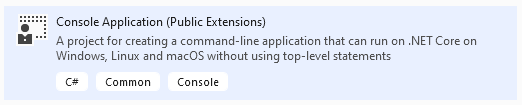
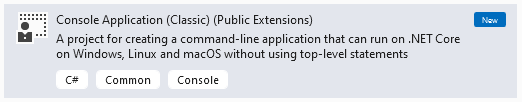
Incorporate dotMorten's GUI options. (#2)

diff --git a/templates/ConsoleApplication-CSharp/Program.cs b/templates/ConsoleApplication-CSharp/Program.cs
@@ -1,7 +1,13 @@
-#if (!csharpFeature_ImplicitUsings)
+#if (csharpFeature_TopLevelProgram)
+// See https://aka.ms/new-console-template for more information
+#endif
+#if (!csharpFeature_ImplicitUsings)
 using System;
 
 #endif
+#if (csharpFeature_TopLevelProgram)
+Console.WriteLine("Hello, World!");
+#else
 namespace Company.ConsoleApplication1
 {
     class Program
@@ -12,3 +18,4 @@ namespace Company.ConsoleApplication1
         }
     }
 }
+#endif

diff --git a/readme.md b/readme.md
@@ -39,11 +39,26 @@ There is currently no option to use the "classic" template if you wish.  Install
 
 ![VS2022 Screenshot](https://github.com/jpobst/classic-dotnet-templates/blob/main/docs/vs-new-project.png "VS2022 Screenshot")
 
+Using this template will allow you to select which template features to use:
+
+![VS2022 Screenshot](https://github.com/jpobst/classic-dotnet-templates/blob/main/docs/vs-options.png "VS2022 Screenshot")
+
 ### Use from CLI
 
 To create a new project from the command line:
 
 `dotnet new console-classic`
+
+Template features can be toggled:
+
+`dotnet new console-classic --topLevelProgram=false --nrt=true --implicitUsings=false`
+
+Available options:
+```
+--nrt: If true, turns on nullable reference types. [defaults to 'true']
+--topLevelProgram: If true, auto-generates the top level statements, skipping explicit main methods, class and namespace. [defaults to 'false']
+--implicitUsings: If true, auto-imports many common using statements. [defaults to 'false']
+```
 
 ### Uninstall
 
